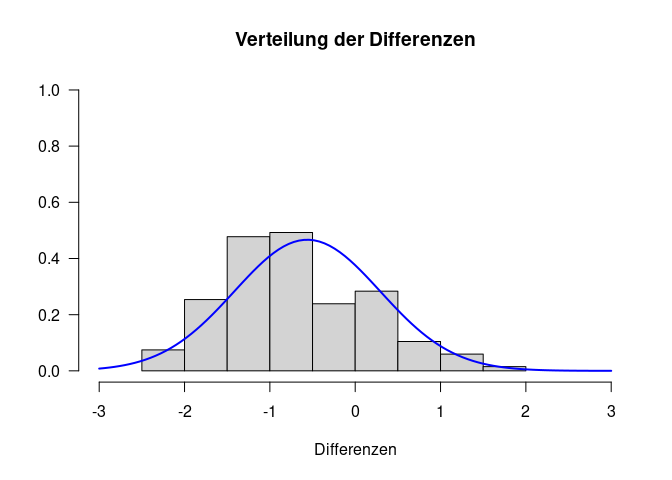
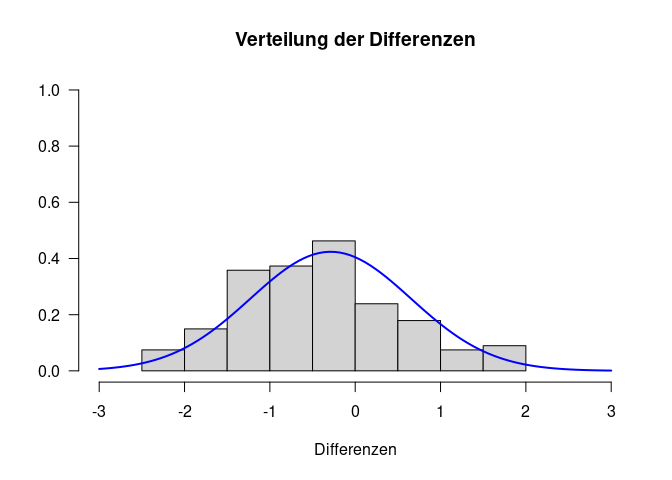
Fix gruppenvergleiche abhaengig "was bisher geschah".

Changed region(s): [[0.2188, 0.4688, 0.9062, 0.7812], [0.1562, 0.75, 0.2188, 0.7812]]

diff --git a/content/lehre/statistik-i/gruppenvergleiche-abhaengig.md b/content/lehre/statistik-i/gruppenvergleiche-abhaengig.md
@@ -9,7 +9,7 @@ subtitle: ''
 summary: 'In diesem Beitrag werden abhängige Stichproben beleuchtet. Dabei geht es vor allem um die Durchführung des abhängigen t-Tests und des abhängigen Wilcoxon-Tests.' 
 authors: [nehler, koehler, buchholz, irmer, liu, sajjad] 
 weight: 7
-lastmod: '2024-12-09'
+lastmod: '2024-12-13'
 featured: no
 banner:
   image: "/header/consent_checkbox.jpg"
@@ -80,9 +80,9 @@ fb24$wohnen <- factor(fb24$wohnen,
 
 # Rekodierung invertierter Items
 fb24$mdbf4_r <- -1 * (fb24$mdbf4 - 5)
-fb24$mdbf11_r <- -1 * (fb24$mdbf4 - 5)
-fb24$mdbf3_r <- -1 * (fb24$mdbf4 - 5)
-fb24$mdbf9_r <- -1 * (fb24$mdbf4 - 5)
+fb24$mdbf11_r <- -1 * (fb24$mdbf11 - 5)
+fb24$mdbf3_r <- -1 * (fb24$mdbf3 - 5)
+fb24$mdbf9_r <- -1 * (fb24$mdbf9 - 5)
 
 # Berechnung von Skalenwerten
 fb24$gs_pre  <- fb24[, c('mdbf1', 'mdbf4_r', 
@@ -117,7 +117,7 @@ summary(fb24$ru_pre)
 
 ```
 ##    Min. 1st Qu.  Median    Mean 3rd Qu.    Max.    NA's 
-##   1.000   2.750   3.000   3.043   3.500   4.000       1
+##   1.000   2.250   2.750   2.777   3.250   4.000       1
 ```
 
 ``` r
@@ -241,18 +241,18 @@ t.test(x = fb24$ru_post, y = fb24$ru_pre, # die beiden abhaengigen Variablen
 ## 	Paired t-test
 ## 
 ## data:  fb24$ru_post and fb24$ru_pre
-## t = -7.6049, df = 133, p-value = 4.611e-12
+## t = -3.5338, df = 133, p-value = 0.000564
 ## alternative hypothesis: true mean difference is not equal to 0
 ## 95 percent confidence interval:
-##  -0.7076257 -0.4155086
+##  -0.4481323 -0.1264946
 ## sample estimates:
 ## mean difference 
-##      -0.5615672
+##      -0.2873134
 ```
 
 
 
-Auf den ursprünglichen Variablen sind immer noch die Personen mit fehlenden Werten enthalten. Trotzdem meldet die Funktion `t.test()` kein Problem. Was passiert hier also? Ein Indiz können uns die Freiheitsgrade bieten, die mit $n-1$ bestimmt werden. Hier wird deutlich, dass Personen mit fehlenden Werten auf einer der beiden Variablen einfach ignoriert werden. Aber man bekommt (außer der überraschend kleinen Freiheitsgrade im Vergleich zur Größe des Datensatzes) keine Warnung oder Fehlermeldung dazu. Hinsichtlich der Interpretation können wir aus dem Befehl folgende Ergebnisse entnehmen: $t$(133) = -7.6 mit einem zugehörigen p-Wert ($p < .01$). Da unser p-Wert unter dem festgelegten $\alpha$-Fehlerniveau liegt, verwerfen wir die $H_0$ und nehmen die $H_1$ an.
+Auf den ursprünglichen Variablen sind immer noch die Personen mit fehlenden Werten enthalten. Trotzdem meldet die Funktion `t.test()` kein Problem. Was passiert hier also? Ein Indiz können uns die Freiheitsgrade bieten, die mit $n-1$ bestimmt werden. Hier wird deutlich, dass Personen mit fehlenden Werten auf einer der beiden Variablen einfach ignoriert werden. Aber man bekommt (außer der überraschend kleinen Freiheitsgrade im Vergleich zur Größe des Datensatzes) keine Warnung oder Fehlermeldung dazu. Hinsichtlich der Interpretation können wir aus dem Befehl folgende Ergebnisse entnehmen: $t$(133) = -3.53 mit einem zugehörigen p-Wert ($p < .01$). Da unser p-Wert unter dem festgelegten $\alpha$-Fehlerniveau liegt, verwerfen wir die $H_0$ und nehmen die $H_1$ an.
 
 
 
@@ -275,7 +275,7 @@ d_Wert
 ```
 
 ```
-## [1] -0.6569617
+## [1] -0.3052702
 ```
 
 **Berechnung mit Funktion `cohen.d()`**
@@ -299,10 +299,10 @@ d2
 ## 
 ## Cohen's d
 ## 
-## d estimate: -0.6569617 (medium)
+## d estimate: -0.3052702 (small)
 ## 95 percent confidence interval:
 ##      lower      upper 
-## -0.8445074 -0.4694160
+## -0.4792767 -0.1312636
 ```
 
 Mit dem Argument `within = T`, was der Default ist, wird für die Varianzberechnung die Varianz innerhalb der Gruppen herangezogen (vergleiche Formel Cohen's $d$ für unanghängige Stichproben). Neben der Punktschätzung der Effektstärke erhalten wir auch eine Einordnung über die Größe (`medium`) und ein Konfidenzintervall. 
@@ -315,13 +315,13 @@ _d''_ | Interpretation |
 ~ .35 | mittlerer Effekt |
 ~ .57 | großer Effekt |
 
-Zusammenfassend lässt sich sagen: Der standardisierte Populationseffekt beträgt $d_2''$ = -0.66 und ist laut Konventionen groß, laut der Aussage des Paketes aber `medium`. 
+Zusammenfassend lässt sich sagen: Der standardisierte Populationseffekt beträgt $d_2''$ = -0.31 und ist laut Konventionen groß, laut der Aussage des Paketes aber `medium`. 
 
 
 ### Ergebnisinterpretation
 
 Bereits auf deskriptivstatistischer Ebene stellen wir einen Unterschied fest: 
-Der Mittelwert der Differenzen zwischen ruhig und unruhig beträgt -0.56. Zur Beantwortung der Fragestellung wurde ein ungerichteter $t$-Test für abhängige Stichproben durchgeführt. Der Unterschied zwischen den beiden Messzeitpunkten ist signifikant ($t$(133) = -7.6, $p < .01$), somit wird die Nullhypothese verworfen. Dieser Unterschied ist nach dem standardisierten Populationseffekt von $d_2''$ = -0.66 mittel bis groß.
+Der Mittelwert der Differenzen zwischen ruhig und unruhig beträgt -0.29. Zur Beantwortung der Fragestellung wurde ein ungerichteter $t$-Test für abhängige Stichproben durchgeführt. Der Unterschied zwischen den beiden Messzeitpunkten ist signifikant ($t$(133) = -3.53, $p < .01$), somit wird die Nullhypothese verworfen. Dieser Unterschied ist nach dem standardisierten Populationseffekt von $d_2''$ = -0.31 mittel bis groß.
 
 ***
 
